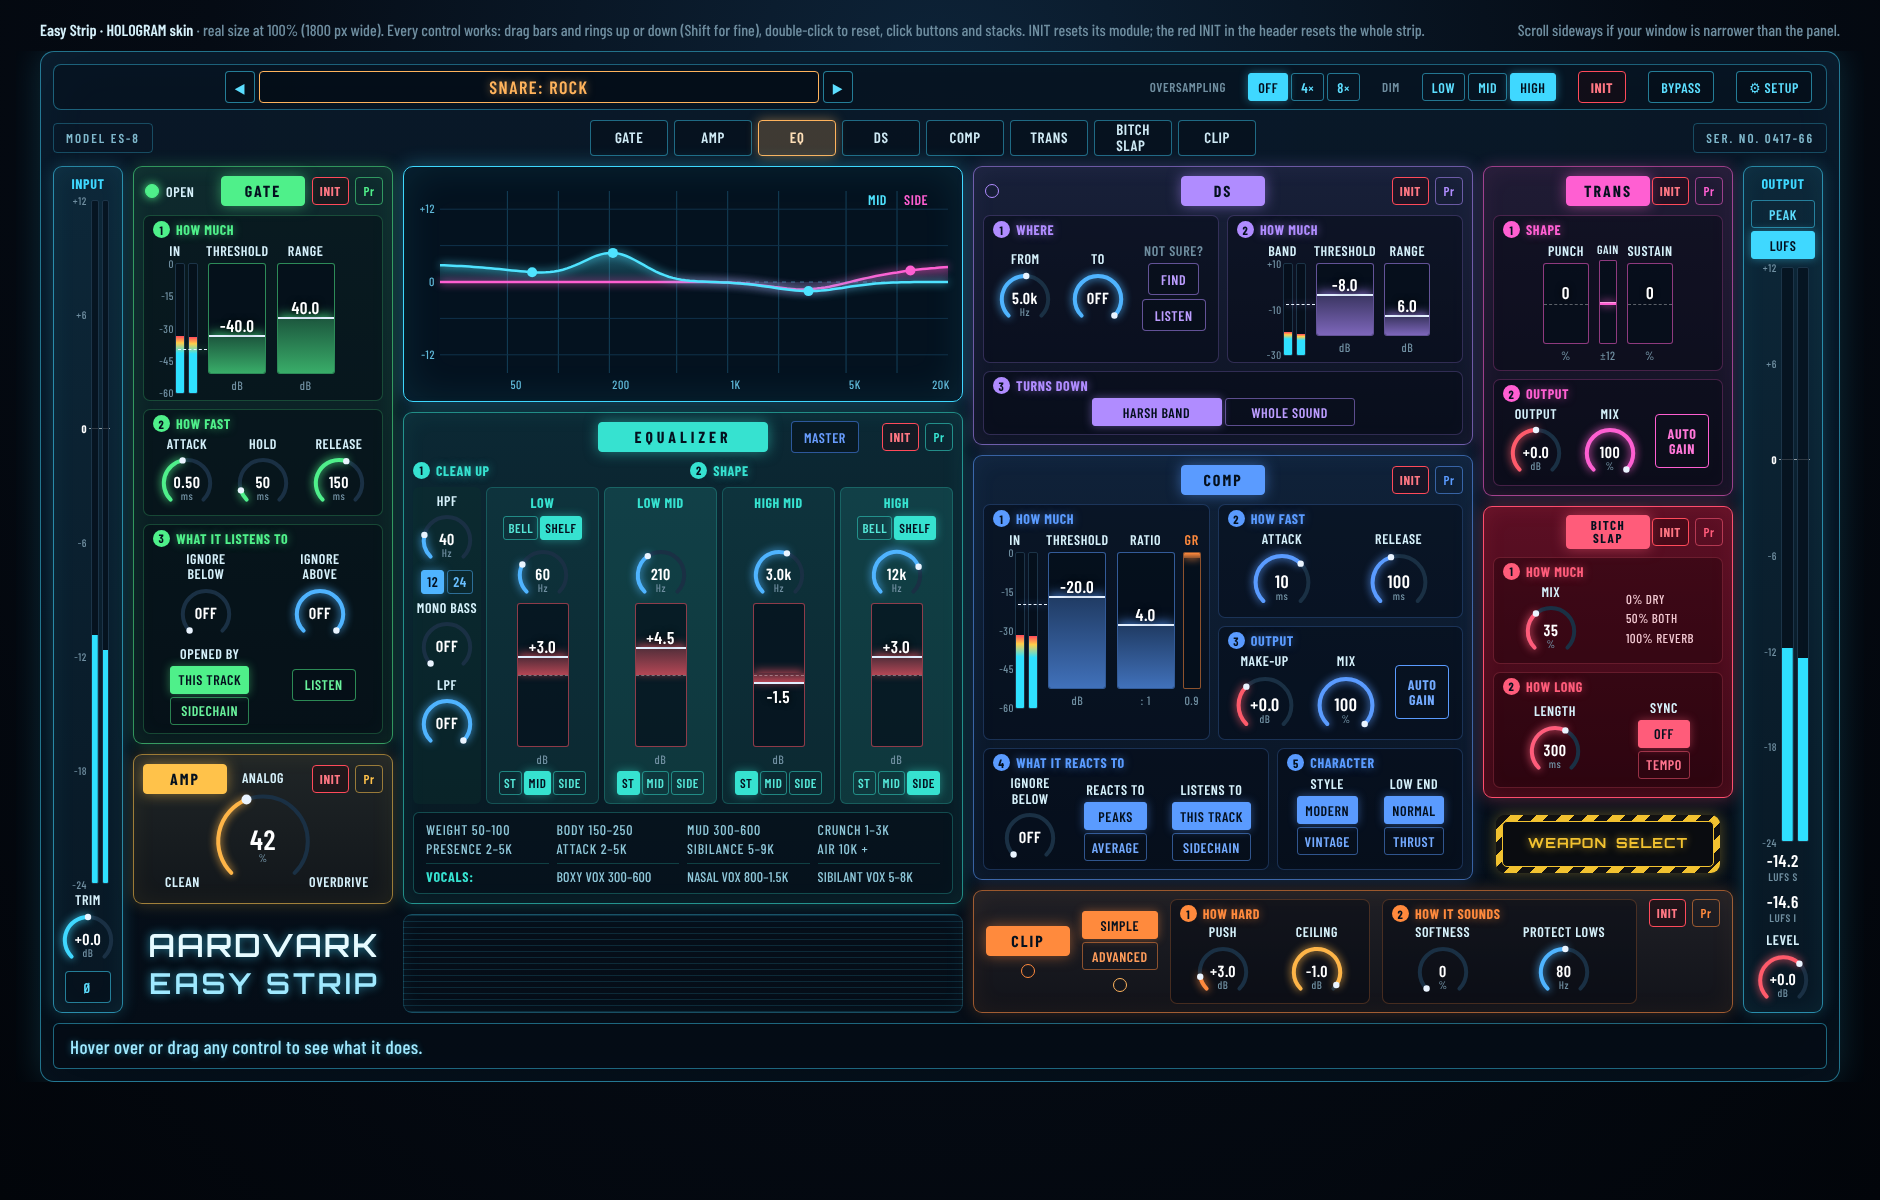
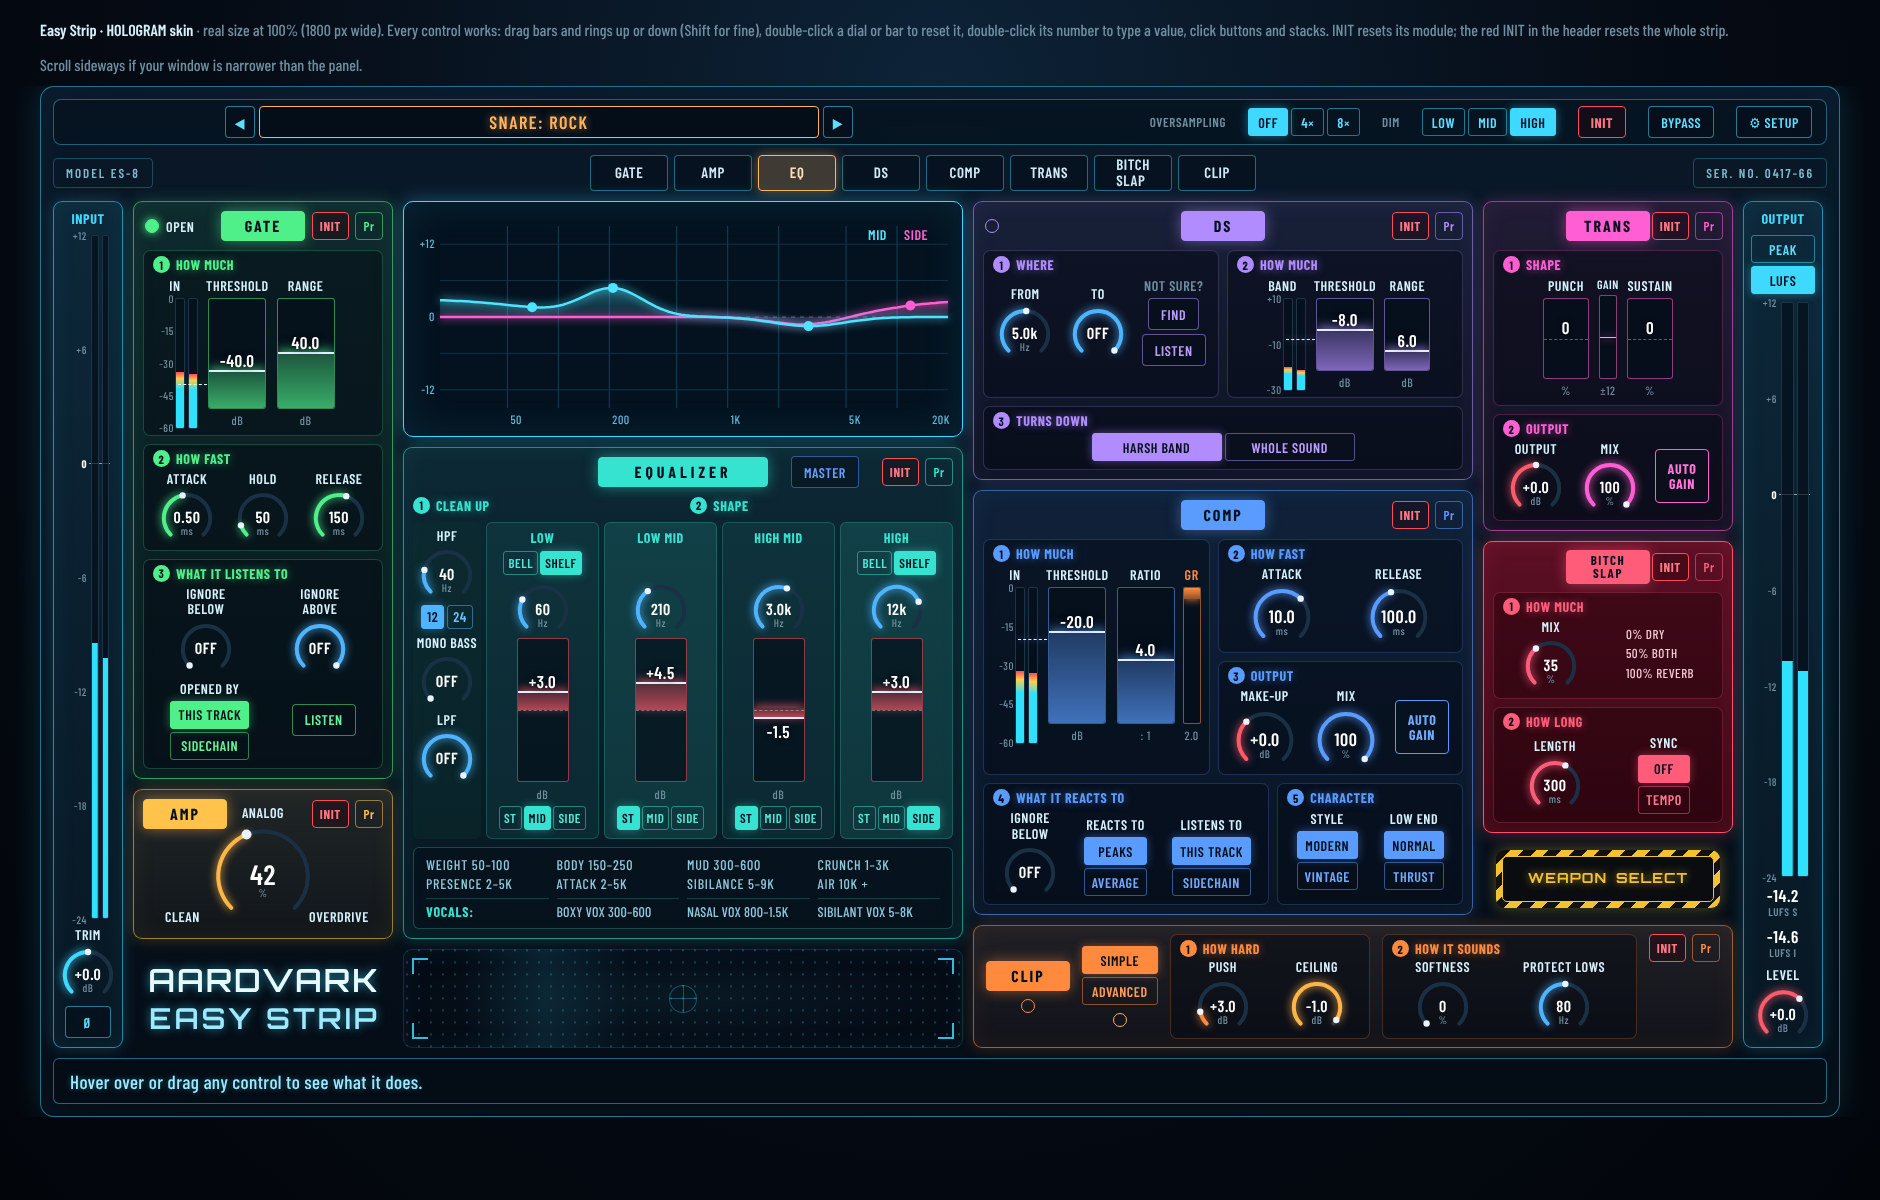
DevTools: standby screen replaces grille lines on the empty panel (HOLOGRAM) [skip ci]
Claude-Session: https://claude.ai/code/session_01KRn7UbAFWVf9LHLqhN9U6j

Changed region(s): [[0.0, 0.0, 0.9872, 0.925]]

diff --git a/DevTools/Look/Strip/strip_wireframe_hologram_digital.html b/DevTools/Look/Strip/strip_wireframe_hologram_digital.html
@@ -134,7 +134,22 @@ body{margin:0;background:radial-gradient(ellipse at 50% 8%,#0d2338 0%,#050b14 55
 .ref .vx,.ref .vx~span{margin-top:4px;padding-top:4px;border-top:1px solid color-mix(in srgb,var(--t) 22%,transparent)}
 .ref{border:1px solid color-mix(in srgb,var(--t) 28%,transparent);border-radius:6px;padding:8px 12px;display:grid;grid-template-columns:repeat(4,1fr);gap:2px 8px;color:#8fc8da;font-size:14px;font-weight:500;letter-spacing:.8px;background:rgba(4,12,22,.45)}
 /* bottom fillers */
-.scan{border-radius:9px;border:1px solid rgba(63,216,255,.22);background:repeating-linear-gradient(0deg,rgba(63,216,255,.14) 0 1px,transparent 1px 6px);box-shadow:inset 0 0 20px rgba(63,216,255,.06)}
+/* standby panel: dot matrix, HUD corner brackets, centre crosshair, slow sweep */
+.scan{position:relative;overflow:hidden;border-radius:9px;border:1px solid rgba(63,216,255,.2);box-shadow:inset 0 0 26px rgba(63,216,255,.07);
+  background:
+    linear-gradient(var(--cyan),var(--cyan)) left 8px top 8px/16px 2px no-repeat,linear-gradient(var(--cyan),var(--cyan)) left 8px top 8px/2px 16px no-repeat,
+    linear-gradient(var(--cyan),var(--cyan)) right 8px top 8px/16px 2px no-repeat,linear-gradient(var(--cyan),var(--cyan)) right 8px top 8px/2px 16px no-repeat,
+    linear-gradient(var(--cyan),var(--cyan)) left 8px bottom 8px/16px 2px no-repeat,linear-gradient(var(--cyan),var(--cyan)) left 8px bottom 8px/2px 16px no-repeat,
+    linear-gradient(var(--cyan),var(--cyan)) right 8px bottom 8px/16px 2px no-repeat,linear-gradient(var(--cyan),var(--cyan)) right 8px bottom 8px/2px 16px no-repeat,
+    radial-gradient(circle,rgba(63,216,255,.28) 1px,transparent 1.6px) center/12px 12px,
+    radial-gradient(ellipse at 50% 50%,rgba(63,216,255,.08),transparent 70%),
+    rgba(3,10,18,.55)}
+.scan::before{content:"";position:absolute;left:50%;top:50%;width:26px;height:26px;transform:translate(-50%,-50%);border:1px solid rgba(63,216,255,.45);border-radius:50%;
+  background:linear-gradient(rgba(63,216,255,.45),rgba(63,216,255,.45)) center/1px 40px no-repeat,linear-gradient(rgba(63,216,255,.45),rgba(63,216,255,.45)) center/40px 1px no-repeat;opacity:.8}
+.scan::after{content:"";position:absolute;top:0;bottom:0;left:-30%;width:30%;background:linear-gradient(90deg,transparent,rgba(63,216,255,.12),transparent);animation:sweep 6s linear infinite}
+@keyframes sweep{to{left:100%}}
+@media (prefers-reduced-motion:reduce){.scan::after{animation:none;display:none}}
+.scan{opacity:.85}
 .wcell{display:flex;align-items:center;justify-content:center;flex:1}
 .wframe{padding:6px;border-radius:9px;background:repeating-linear-gradient(-45deg,var(--haz) 0 9px,#121212 9px 18px);box-shadow:0 0 14px rgba(242,194,48,.35)}
 .wbtn{width:212px;height:46px;flex-direction:row!important;gap:9px;box-sizing:border-box;border-radius:5px;background:#0a0c10;border:1px solid var(--haz);color:var(--haz);font-family:var(--disp);font-weight:700;font-size:14px;letter-spacing:1px;line-height:1.35;display:flex;flex-direction:column;align-items:center;justify-content:center;text-shadow:0 0 8px rgba(242,194,48,.7);cursor:pointer}
